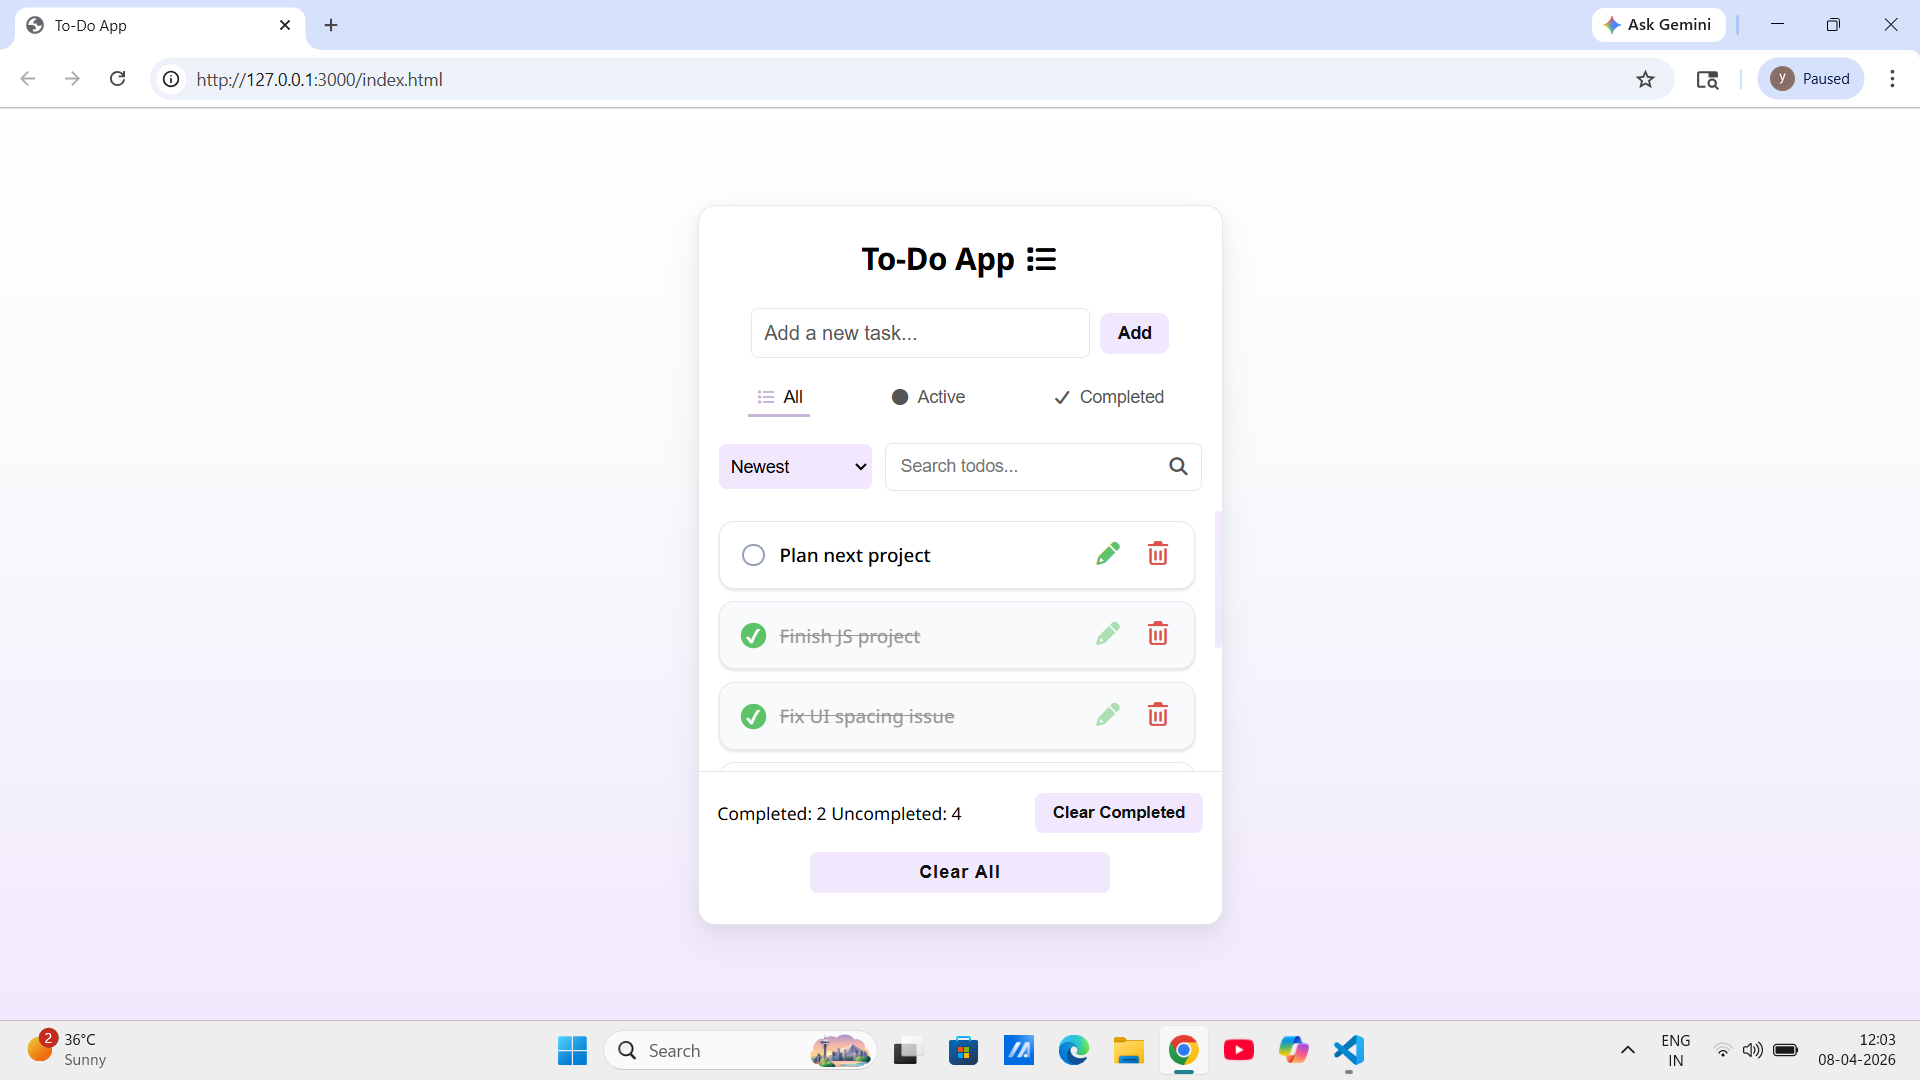
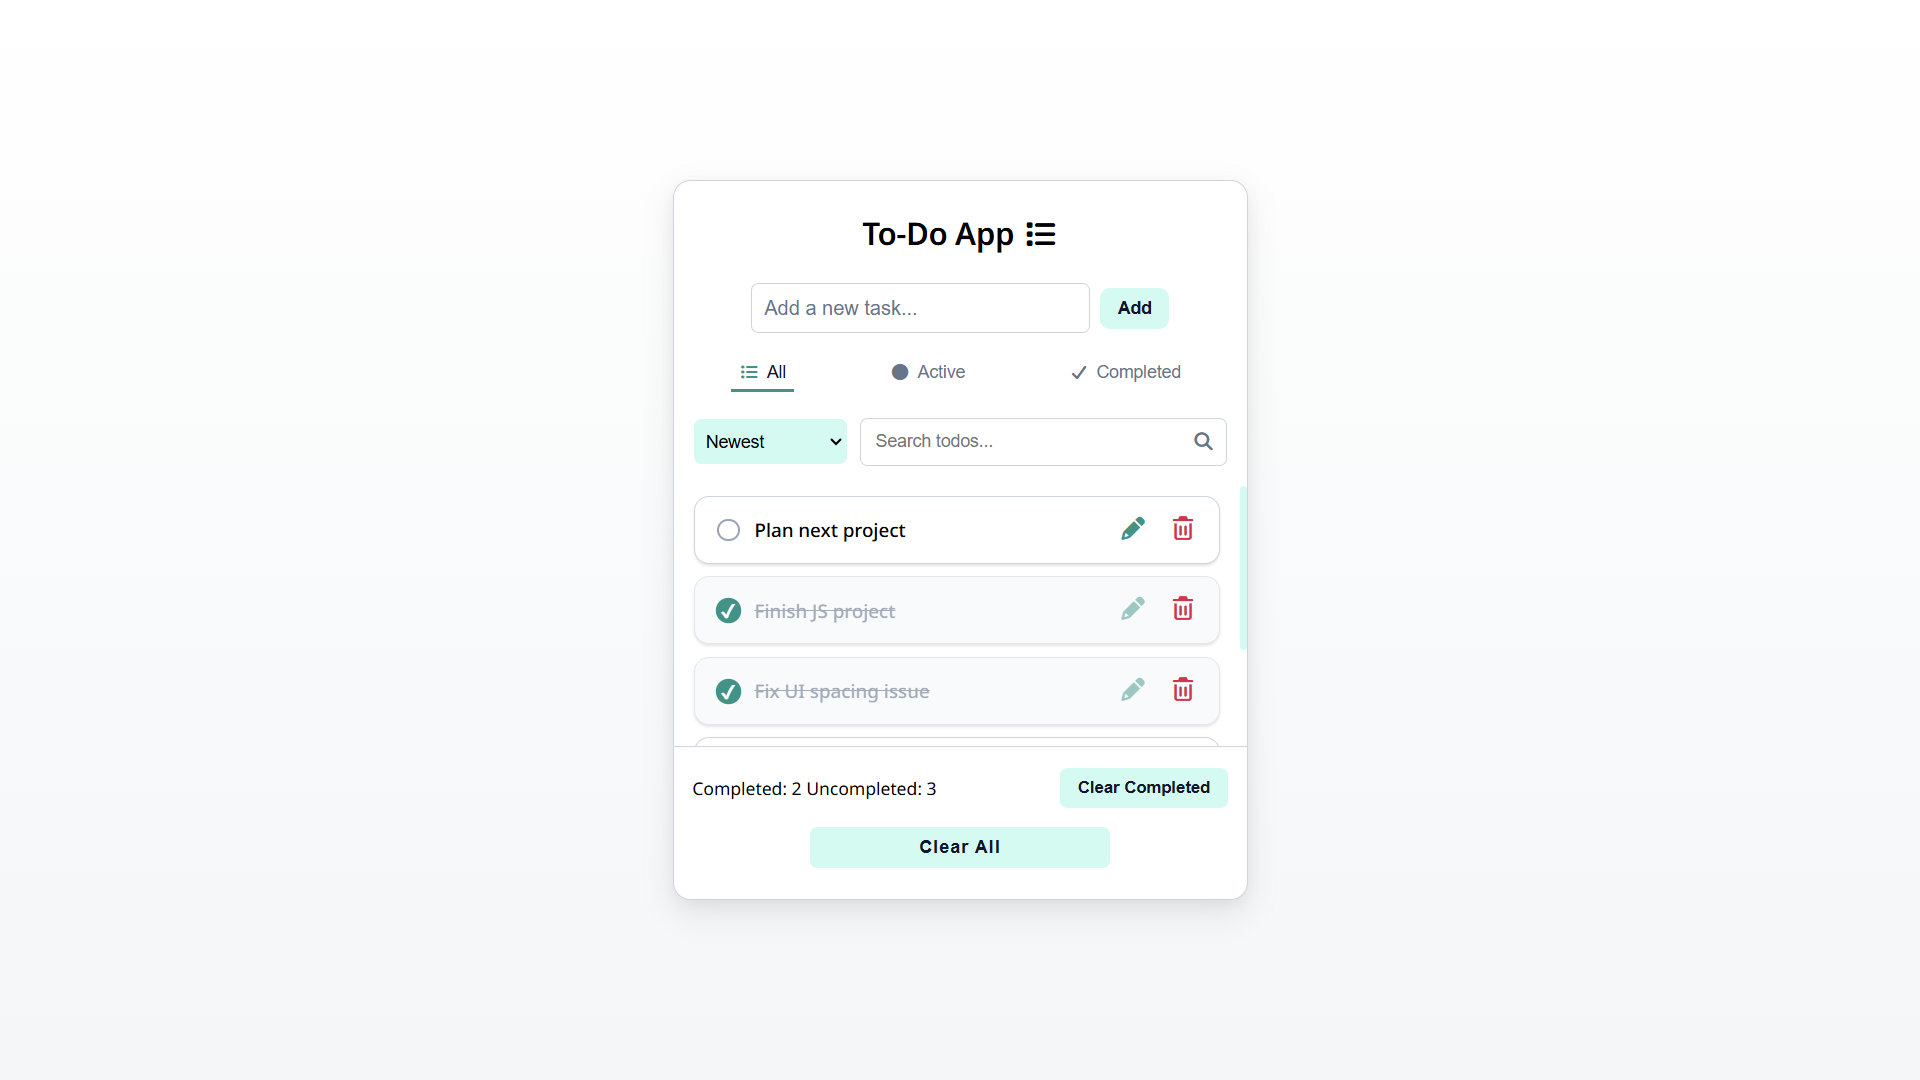
refactor: update color theme to modern minimal

diff --git a/style.css b/style.css
@@ -1,7 +1,6 @@
  @import url('https://fonts.googleapis.com/css2?family=Noto+Sans:ital,wght@0,100..900;1,100..900&display=swap');
 
  :root {
-
      /* FONT */
      --font-main: "Noto Sans", sans-serif;
 
@@ -15,38 +14,38 @@
      --bg-body-gradient: #f8fafc;
 
      /* PRIMARY BUTTON */
-     --color-primary: #f3e8ff;
-     --color-primary-hover: #e9d5ff;
+     --color-primary: #ccfbf1;
+     --color-primary-hover: #99f6e4;
 
-     /* ACCENT / FOCUS */
-     --color-accent: #cdb4db;
-     --color-accent-light: #ede9fe;
+     /* ACCENT */
+     --color-accent: #0d9488;
+     --color-accent-light: #ccfbf1;
+
+     /* INPUT / BORDER */
+     --color-border: #cbd5e1;
 
      /* SURFACE COLORS */
      --color-card: #ffffff;
      --color-card-completed: #f8fafc;
 
-     /* INPUT / BORDER */
-     --color-border: #e2e8f0;
-
      /* TEXT COLORS */
-     --color-text-main: #111111;
-     --color-text-muted: #555555;
+     --color-text-main: #0f172a;
+     --color-text-muted: #64748b;
 
      /* ICON COLORS */
-     --color-success: #22c55e;
-     --color-success-hover: #15803d;
+     --color-success: #0d9488;
+     --color-success-hover: #0f766e;
 
-     --color-danger: #ef4444;
-     --color-danger-hover: #dc2626;
+     --color-danger: #e11d48;
+     --color-danger-hover: #be123c;
 
      /* CHECKBOX */
      --checkbox-border: #94a3b8;
 
      /* SHADOWS */
-     --shadow-card: 0 10px 25px rgba(0, 0, 0, 0.06);
+     --shadow-card: 0 10px 25px rgba(0, 0, 0, 0.08);
      --shadow-soft: 0 4px 10px rgba(0, 0, 0, 0.04);
-     --shadow-hover: 0 6px 14px rgba(0, 0, 0, 0.08);
+     --shadow-hover: 0 6px 14px rgba(0, 0, 0, 0.10);
 
      /* RADIUS */
      --radius-sm: 6px;
@@ -56,7 +55,6 @@
      /* TRANSITIONS */
      --transition-fast: 0.15s ease;
      --transition-normal: 0.25s ease;
-
  }
 
  body {
@@ -68,14 +66,13 @@
      min-height: 100vh;
      background: linear-gradient(180deg,
              #ffffff 0%,
-             #f8fafc 40%,
-             #f3e8ff 100%);
+             #f4f6f8 100%);
      background-attachment: fixed;
  }
 
  .container {
      width: 100%;
-     max-width: 420px;
+     max-width: 460px;
      padding: 40px 20px;
  }
 
@@ -97,7 +94,7 @@
      margin-bottom: 0;
      padding: 15px;
      font-size: 25px;
-     font-weight: 600px;
+     font-weight: 600;
      letter-spacing: -0.3px;
  }
 

diff --git a/script.js b/script.js
@@ -229,8 +229,8 @@ function toggleComplete(id) {
 
 // Remove a todo from state
 function deleteTodo(id) {
-    /* You store id in JS → copy it into DOM using data-id → use it later to find that exact element.
-    li.dataset.id = todo.id; in render function*/
+    
+    // since we set li.dataset.id = todo.id
     const li = document.querySelector(`li[data-id="${id}"]`);
     if (!li) return;
 

diff --git a/README.md b/README.md
@@ -23,7 +23,7 @@ CSS
 JavaScript
 LocalStorage
 
-Screenshot:
+## Screenshot:
 ![Todo App Screenshot](todo-preview.png)
 
 Author:
